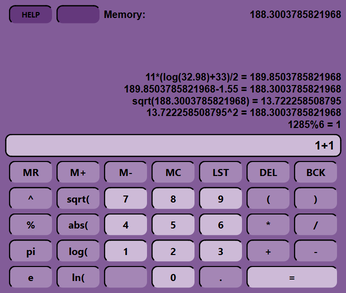
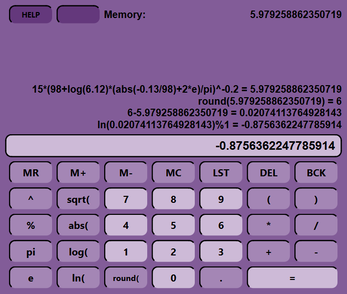
One more fn

Changed region(s): [[0.0289, 0.2457, 1.0, 0.9829], [0.7225, 0.0307, 0.9827, 0.0614], [0.289, 0.0307, 0.4335, 0.0614]]

diff --git a/maincalc.cpp b/maincalc.cpp
@@ -4,6 +4,9 @@
 /* TODO:
  *  dice?, FUN
  *
+ *  set number of decimals
+ *  what about too long numbers??
+ *
  *  handle keys?
  *  handle Enter as =  -->  https://stackoverflow.com/questions/25637171/qt-key-pressevent-enter
  *  Space to start editing, enter for =
@@ -30,7 +33,7 @@ MainCalc::MainCalc(QWidget *parent)
     displayWelcome();
 
     // Symbol buttons (numbers and math signs):
-    const int btns = 25;
+    const int btns = 26;
     QPushButton* numberButtons[btns] = {
         ui->pushButton_15,
         ui->pushButton_11,
@@ -56,7 +59,8 @@ MainCalc::MainCalc(QWidget *parent)
         ui->pushButton_12,
         ui->pushButton_31,
         ui->pushButton_32,
-        ui->pushButton_33
+        ui->pushButton_33,
+        ui->pushButton_34
     };
     for(int i = 0; i < btns; i++) {
         connect(numberButtons[i], SIGNAL(released()), this, SLOT(pressNumber()));
@@ -73,7 +77,6 @@ MainCalc::MainCalc(QWidget *parent)
     connect(ui->pushButton_9, SIGNAL(released()), this, SLOT(pressMemoryClear()));
 
     // TODO:
-    connect(ui->pushButton_34, SIGNAL(released()), this, SLOT(pressBlank()));
     connect(ui->pushButton_36, SIGNAL(released()), this, SLOT(pressBlank()));
 }
 
@@ -95,7 +98,8 @@ void MainCalc::pressNumber() {
         ui->lineEdit->setText(btnVal);
     } else if((dispVal.toDouble() || !QString::compare(btnVal, "pi") || !QString::compare(btnVal, "e")) &&
               (!QString::compare(btnVal, "sqrt(") || !QString::compare(btnVal, "abs(")
-               || !QString::compare(btnVal, "log(") || !QString::compare(btnVal, "ln("))) {
+               || !QString::compare(btnVal, "log(") || !QString::compare(btnVal, "ln(")
+               || !QString::compare(btnVal, "round("))) {
         // If there is only a number in expression, function should go before it.
         // Don't handle not-just-number expressions, too tough. ;)
         QString newVal = btnVal + dispVal;
@@ -127,6 +131,7 @@ void MainCalc::pressEqual() {
     dispVal = dispVal.replace("abs", "Math.abs");
     dispVal = dispVal.replace("log", "Math.log10");
     dispVal = dispVal.replace("ln", "Math.log");
+    dispVal = dispVal.replace("round", "Math.round");
     dispVal = dispVal.replace("pi", "Math.PI");
     dispVal = dispVal.replace("e", "Math.E");
 

diff --git a/README.md b/README.md
@@ -3,10 +3,10 @@
 # AK7Calc #
 </div>
 
-A very simple calculator built with the Qt framework (version 6.2.2).
+A very simple calculator built with the framework [Qt 6.2.2](https://www.qt.io/).
 
 
-
+<br>
 <div align="center">
 
 ![](calc.png "AK7Calc")
